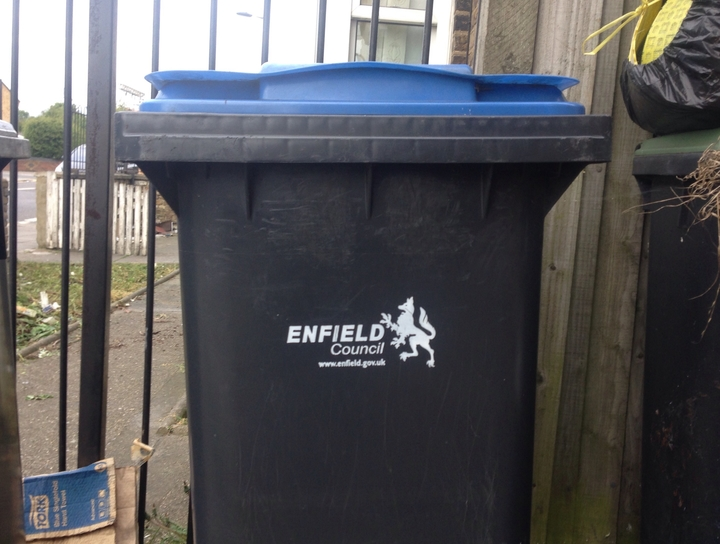
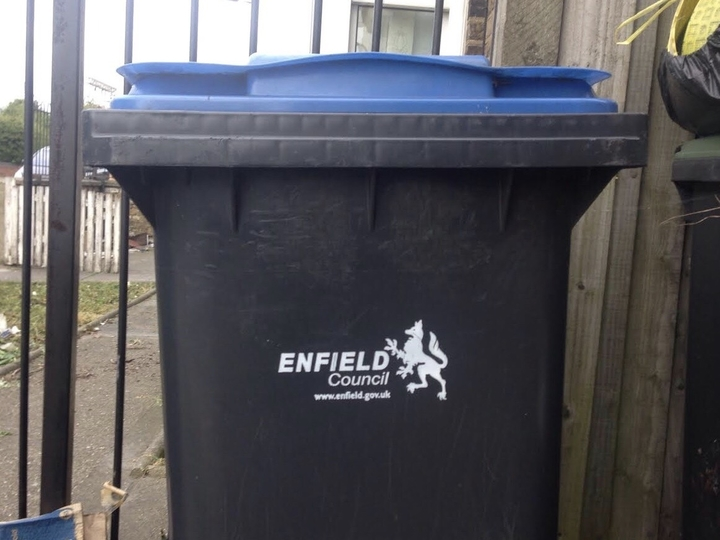
add Enfield bin

diff --git a/index.html b/index.html
@@ -396,6 +396,12 @@
 						<br>
 					</div>
 					<div class="col-sm-6 col-md-6 col-lg-4 bin">
+						      	<img src="images/Enfield.jpg" class="img-responsive" alt="Responsive image">
+								<h3 id="council-name" data-local-authority-eng="ENF"></h3>
+								<p>17.4.2017</p>
+						<br>
+					</div>
+					<div class="col-sm-6 col-md-6 col-lg-4 bin">
 						      	<img src="images/Broxbourne.jpg" class="img-responsive" alt="Responsive image">
 								<h3 id="council-name" data-local-authority-eng="BRX"></h3>
 								<p>17.4.2017</p>
